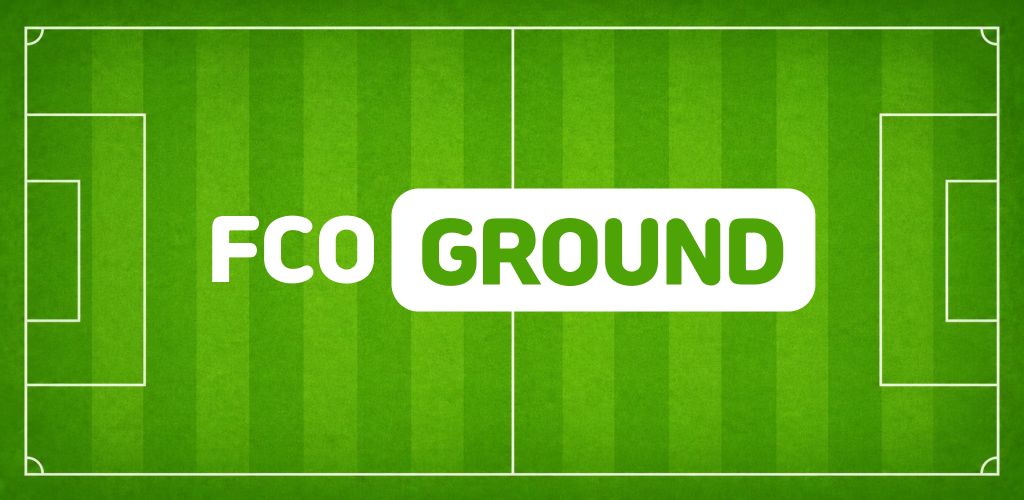
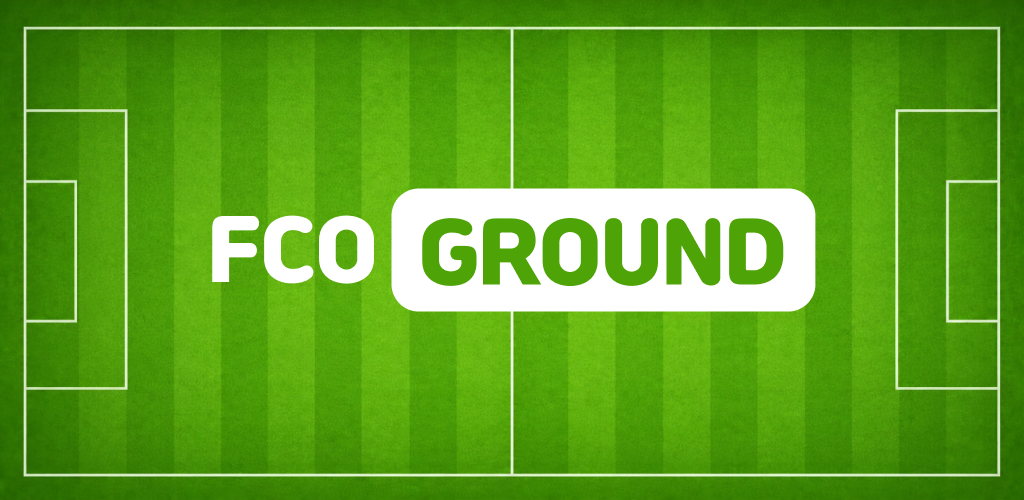
feat: OG 이미지 재업데이트 — 27.9

diff --git a/apps/fconline/src/lib/appVersion.ts b/apps/fconline/src/lib/appVersion.ts
@@ -3,6 +3,7 @@ import pkg from '../../package.json'
 export const APP_VERSION = pkg.version
 
 export const RELEASE_PUBLISHED_AT_BY_VERSION: Record<string, string> = {
+  '27.9': '2026-05-07T07:00:00+09:00',
   '27.8': '2026-05-07T06:30:00+09:00',
   '27.7': '2026-05-07T06:00:00+09:00',
   '27.6': '2026-05-07T05:30:00+09:00',
@@ -61,6 +62,9 @@ export const RELEASE_PUBLISHED_AT_BY_VERSION: Record<string, string> = {
 }
 
 export const RELEASE_NOTES_BY_VERSION: Record<string, string[]> = {
+  '27.9': [
+    'OG 이미지를 재업데이트했습니다.',
+  ],
   '27.8': [
     'OG 이미지와 메인 배너 이미지를 업데이트했습니다.',
   ],
